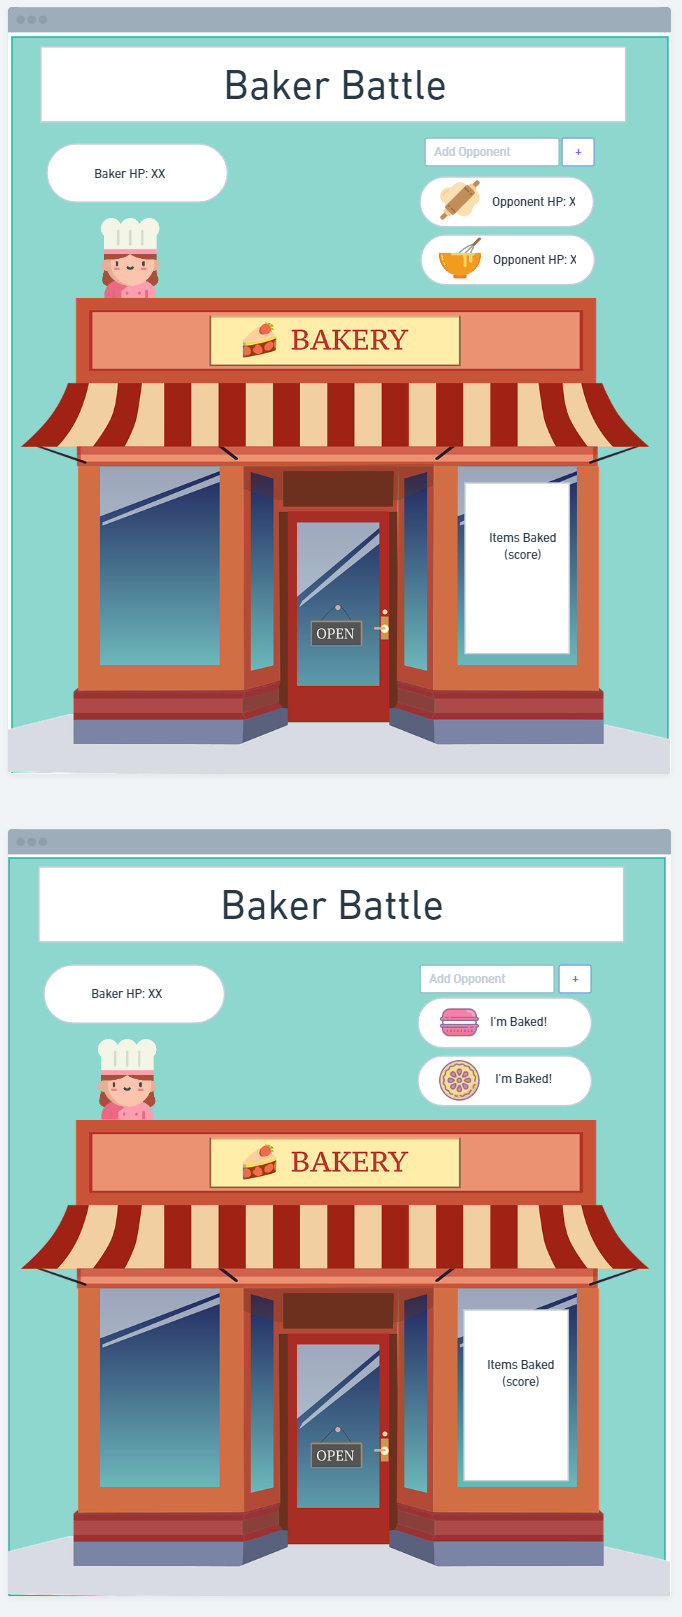
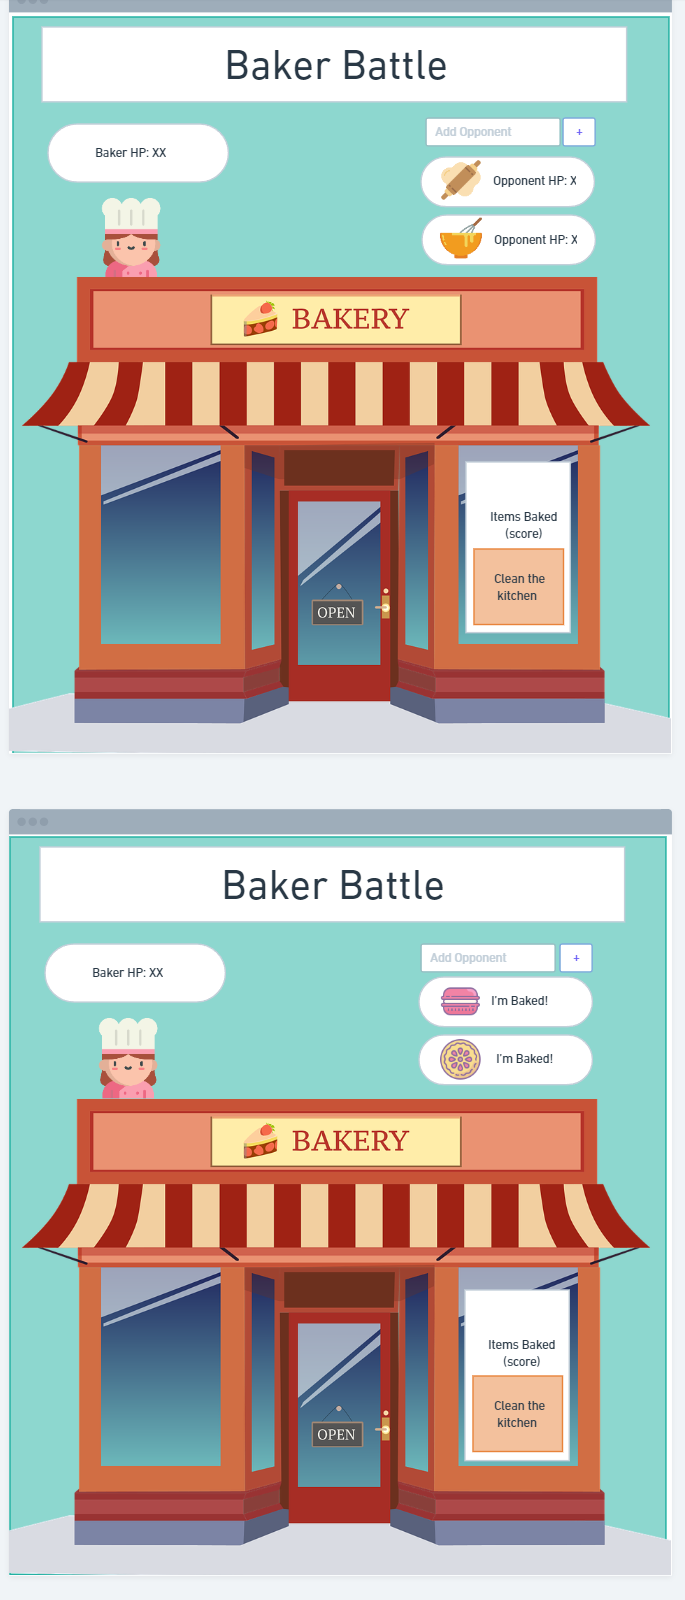
update wireframe

diff --git a/styles/styling.css b/styles/styling.css
@@ -1,11 +1,9 @@
-<a target="_blank" href="https://icons8.com/icon/97310/pink-macaron">Pink Macaron</a> icon by <a target="_blank" href="https://icons8.com">Icons8</a>
-<a target="_blank" href="https://icons8.com/icon/46370/bread">Bread</a> icon by <a target="_blank" href="https://icons8.com">Icons8</a>
-<a target="_blank" href="https://icons8.com/icon/TiHiJV8kPqNT/merry-pie">Merry Pie</a> icon by <a target="_blank" href="https://icons8.com">Icons8</a>
-<a target="_blank" href="https://icons8.com/icon/mbI5E8UQHFoP/female-baker-skin-type-1">Female Baker Skin Type 1</a> icon by <a target="_blank" href="https://icons8.com">Icons8</a>
-<a target="_blank" href="https://icons8.com/icon/QtSn5IIDym6l/bakery">Bakery</a> icon by <a target="_blank" href="https://icons8.com">Icons8</a>
-Image by <a href="https://pixabay.com/users/vvadyab-13368278/?utm_source=link-attribution&amp;utm_medium=referral&amp;utm_campaign=image&amp;utm_content=4423853">Pontep Luangon</a> from <a href="https://pixabay.com//?utm_source=link-attribution&amp;utm_medium=referral&amp;utm_campaign=image&amp;utm_content=4423853">Pixabay</a>
-<a href="https://www.flaticon.com/free-icons/bakery" title="bakery icons">Bakery icons created by surang - Flaticon</a>
-<a href="https://www.flaticon.com/free-icons/pastry-bag" title="pastry bag icons">Pastry bag icons created by Graphix's Art - Flaticon</a>
-<a href="https://www.flaticon.com/free-icons/super-bowl" title="Super Bowl icons">Super Bowl icons created by Smashicons - Flaticon</a>
-<a href="https://www.flaticon.com/free-icons/baker" title="baker icons">Baker icons created by Freepik - Flaticon</a>
-<a href="https://www.flaticon.com/free-icons/samhain" title="samhain icons">Samhain icons created by Freepik - Flaticon</a>
+/* color palette
+
+bg color: 6ab3b7
+poster/banners: ffeda9
+borders: e08769
+text?: 9f2214
+text?: 2f4370
+
+*/

diff --git a/styles/global.css b/styles/global.css
@@ -1,6 +1,6 @@
 :root {
     --background: rgb(224, 234, 247);
-    --header-background: rgb(254, 251, 245);
+    --header-background: rgb(68, 250, 189);
     --primary-font: Corbel, 'Lucida Grande', 'Lucida Sans Unicode', 'Lucida Sans', 'DejaVu Sans',
         'Bitstream Vera Sans', 'Liberation Sans', Verdana, 'Verdana Ref', sans-serif;
 }

diff --git a/README.md b/README.md
@@ -25,3 +25,44 @@ Additional considerations:
     -   What needs to live in a persistence layer?
 -   Is there some state we need to initialize?
 -   Ask: should any of this work be abstracted into functions? (i.e., is the work complicated? can it be reused?)
+
+image crediting:
+<a target="_blank" href="https://icons8.com/icon/97310/pink-macaron">Pink Macaron</a> icon by <a target="_blank" href="https://icons8.com">Icons8</a>
+<a target="_blank" href="https://icons8.com/icon/46370/bread">Bread</a> icon by <a target="_blank" href="https://icons8.com">Icons8</a>
+<a target="_blank" href="https://icons8.com/icon/TiHiJV8kPqNT/merry-pie">Merry Pie</a> icon by <a target="_blank" href="https://icons8.com">Icons8</a>
+<a target="_blank" href="https://icons8.com/icon/mbI5E8UQHFoP/female-baker-skin-type-1">Female Baker Skin Type 1</a> icon by <a target="_blank" href="https://icons8.com">Icons8</a>
+<a target="_blank" href="https://icons8.com/icon/QtSn5IIDym6l/bakery">Bakery</a> icon by <a target="_blank" href="https://icons8.com">Icons8</a>
+Image by <a href="https://pixabay.com/users/vvadyab-13368278/?utm_source=link-attribution&amp;utm_medium=referral&amp;utm_campaign=image&amp;utm_content=4423853">Pontep Luangon</a> from <a href="https://pixabay.com//?utm_source=link-attribution&amp;utm_medium=referral&amp;utm_campaign=image&amp;utm_content=4423853">Pixabay</a>
+<a href="https://www.flaticon.com/free-icons/bakery" title="bakery icons">Bakery icons created by surang - Flaticon</a>
+<a href="https://www.flaticon.com/free-icons/pastry-bag" title="pastry bag icons">Pastry bag icons created by Graphix's Art - Flaticon</a>
+<a href="https://www.flaticon.com/free-icons/super-bowl" title="Super Bowl icons">Super Bowl icons created by Smashicons - Flaticon</a>
+<a href="https://www.flaticon.com/free-icons/baker" title="baker icons">Baker icons created by Freepik - Flaticon</a>
+<a href="https://www.flaticon.com/free-icons/samhain" title="samhain icons">Samhain icons created by Freepik - Flaticon</a>
+
+## html precode
+
+header: Baker Battle
+css grid, 3 columns, two rows
+section baker:
+baker hp
+baker img
+section empty
+section opponent:
+text input for opponent names
+linked buttons
+div:
+opponent img
+opponent hp
+new row
+appearing over bg
+section empty
+section empty
+section score:
+box
+Items baked (score)
+
+## events
+
+click add opponent
+click opponent
+click "clean the kitchen"
